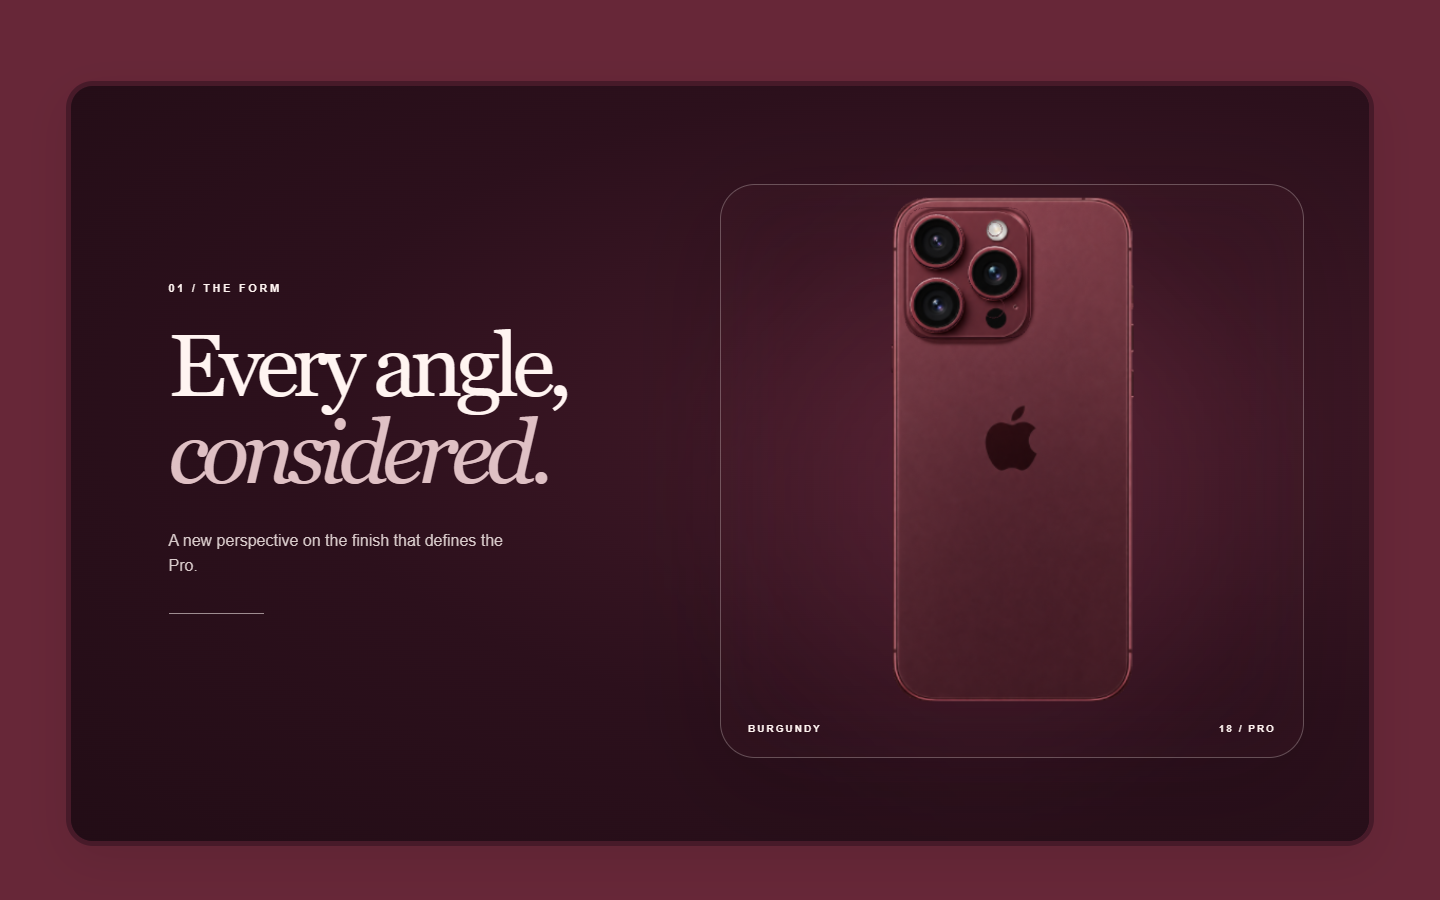
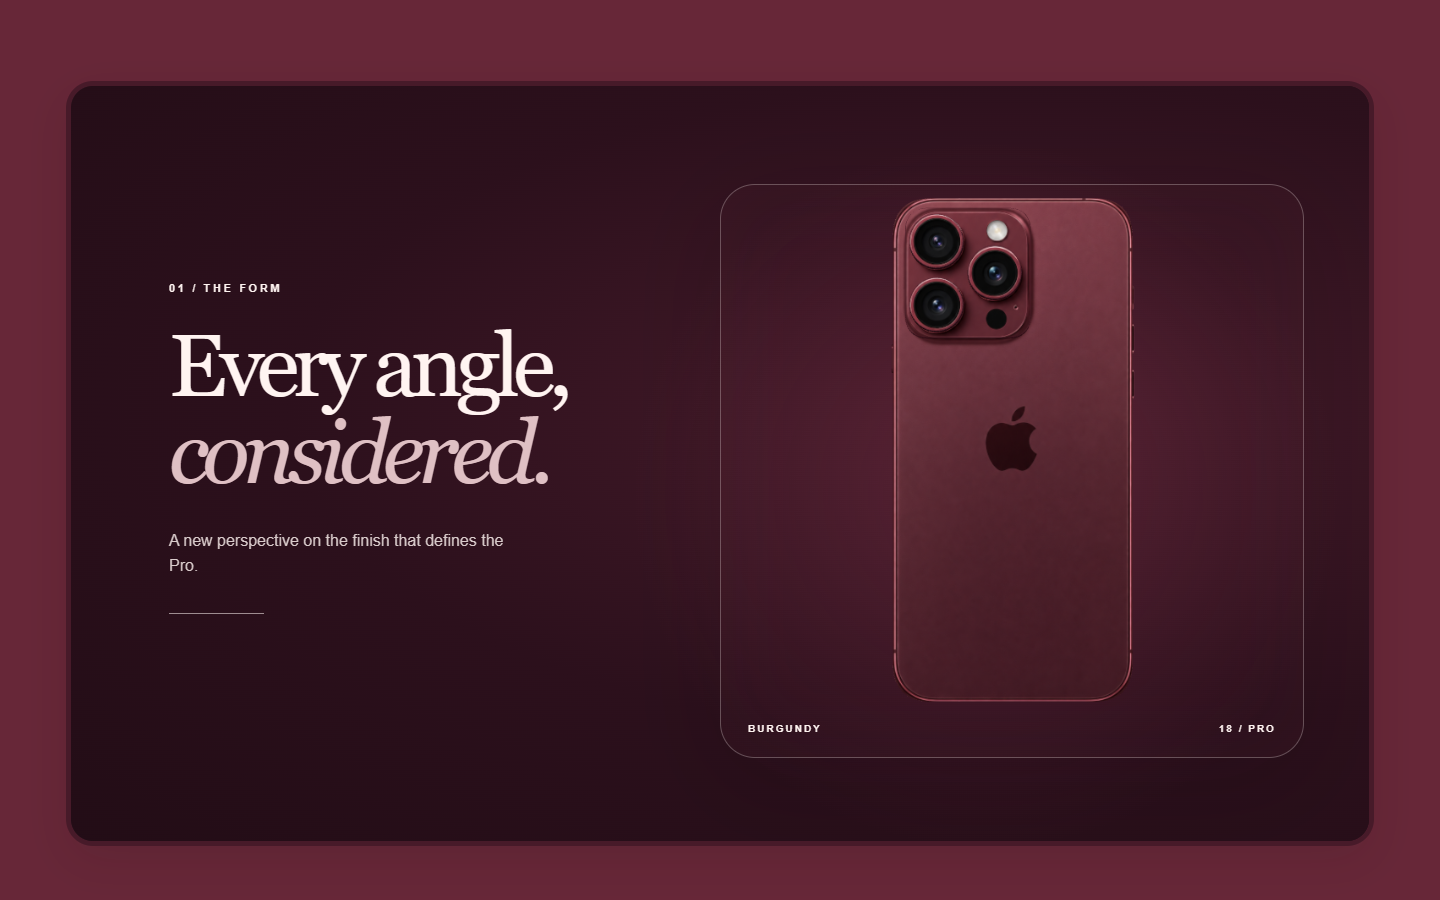
Add corrected camera preview and model notes

diff --git a/design/README.md b/design/README.md
@@ -13,6 +13,8 @@ The sequence follows progress through the pinned hero:
 
 On mobile, the copy sits above the display frame and the phone settles below it with a smaller rightward shift.
 
-The phone is one Three.js model in `app/ThreePhone.tsx`. Its rounded frame, rear and front, raised camera deck, three lens barrels, flash, and side buttons are separate meshes. The approved 1024 × 1536 rear renders in `public/assets/iphone-rear-*-v2.png` are mapped onto the rear and camera surfaces. New matching side and front references cover the rail and display. One set of geometry serves all five colors; textures and metal finish interpolate when the selected color changes. The model turns 34 degrees around its vertical axis. The curtain waits until it is ready so the opening pose already uses this same model.
+The phone is one Three.js model in `app/ThreePhone.tsx`. Its rounded frame, rear and front, raised camera deck, three lens barrels, and side buttons are separate meshes. The approved 1024 × 1536 rear renders in `public/assets/iphone-rear-*-v2.png` are mapped onto the rear and camera surfaces. New matching side and front references cover the rail and display. One set of geometry serves all five colors; textures and metal finish interpolate when the selected color changes. The model turns 34 degrees around its vertical axis. The curtain waits until it is ready so the opening pose already uses this same model.
+
+The flash and dark sensor use the calibrated camera photograph directly, with no duplicate disks over them. The lens faces sit clear of their barrels, and the camera uses a tight depth range to avoid surface flicker. `camera-detail.png` shows the final close-up. The card rail stays stable during scroll updates; only its fade changes, which keeps the scroll animation responsive.
 
 The side and front reference PNGs were made with built-in image generation, conditioned on the approved Burgundy rear image. The prompts called for a straight orthographic burgundy volume-button side with a visible camera protrusion, and a matching straight-on front display with a continuous satin metal rim, black pill cutout, and burgundy silk wallpaper. Both were composed as full-height single phones with no labels or extra devices; the model crops to the phone surfaces.

diff --git a/README.md b/README.md
@@ -16,7 +16,7 @@ Open [http://localhost:3000](http://localhost:3000).
 - A burgundy curtain opens after connected welcome lettering draws and fades. The rock and main phone rise into view, followed by a 3.2-second carousel entrance that travels two card positions into a five-card arch.
 - Five phone colors autoplay around a continuous arch with two distinct cards on each side. Each change crossfades the phone and sends a soft ripple from its center; cards can also be selected directly.
 - The hero stays pinned during scrolling. Both phones retain the selected finish. The screen-facing phone slides left and fades behind the main phone, which moves right and turns into its display frame. Scrolling back reverses the sequence.
-- One reusable Three.js phone is visible from the opening pose through the final rear view. Its rounded chassis, rear and front surfaces, raised camera deck, lens barrels, flash, side rail, and controls have 3D geometry. High-resolution rear photography and matching side and front references provide the finish detail. The same model changes textures and metal color for all five finishes.
+- One reusable Three.js phone is visible from the opening pose through the final rear view. Its rounded chassis, rear and front surfaces, raised camera deck, lens barrels, side rail, and controls have 3D geometry. High-resolution rear photography supplies the precisely aligned flash, sensor, and finish detail; matching side and front references complete the phone. The same model changes textures and metal color for all five finishes.
 - The curtain waits for the model to render before opening, keeping the artwork-to-model fallback out of sight on slower loads. If WebGL is unavailable, the original phone artwork remains visible.
 - The layout stacks on smaller screens. Autoplay pauses during the scroll presentation and resumes when returning to the hero.
 - Reduced-motion preferences are respected.
